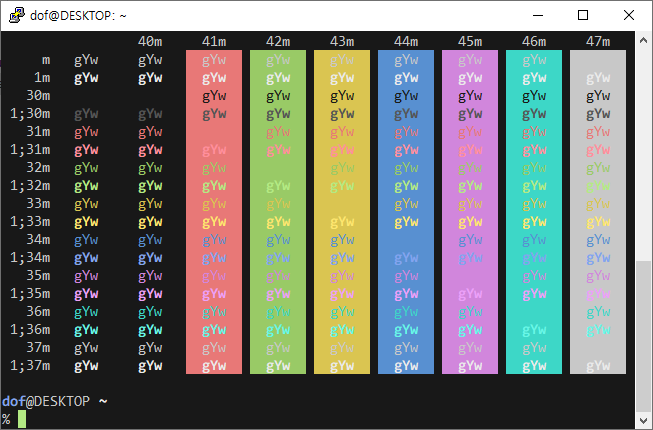
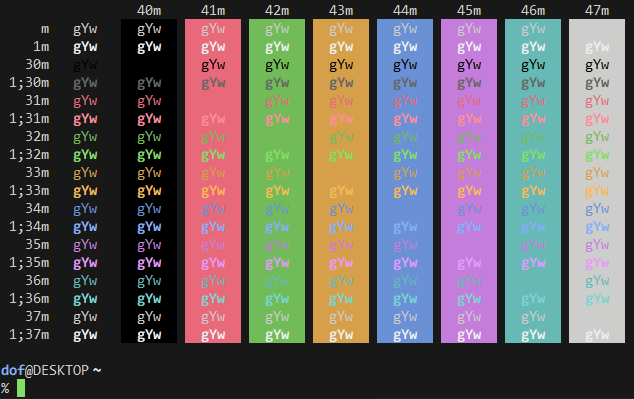
Adjust TTY color

diff --git a/color/putty_gen.py b/color/putty_gen.py
@@ -44,15 +44,31 @@ for c in Colour:
 color_jch = cspace_convert(color, "sRGB255", "JCh")
 
 # Normalize lightness
-j_mean = (np.mean(color_jch[8:22,0]) + np.max(color_jch[8:22,0])) / 2
-color_jch[8:22,0] = (color_jch[8:22,0] + j_mean) / 2
+j_mean = (np.mean(color_jch[8:20,0]) + np.max(color_jch[8:20,0])) / 2
+color_jch[8:20,0] = (color_jch[8:20,0] + j_mean) / 2
+
+j_lo_mean = np.mean(color_jch[8:20:2,0])
+color_jch[8:20:2,0] = (color_jch[8:20:2,0] + j_lo_mean) / 2
+
+j_hi_mean = np.mean(color_jch[9:22:2,0])
+color_jch[9:20:2,0] = (color_jch[9:20:2,0] + j_hi_mean) / 2
+
+j_w_mean = np.mean(color_jch[20:22,0])
+color_jch[20:22,0] = (color_jch[20:22,0] + j_w_mean) / 2
 
 # Normalize chroma
 c_min = np.min(color_jch[8:20,1])
-color_jch[8:20,1] = c_min
+c_mean = np.mean(color_jch[8:20,1])
+color_jch[8:20,1] = (color_jch[8:20,1] + c_min) / 2 - (c_mean - c_min) / 2
 
-# Little alt hue
-color_jch[8:20,2] = color_jch[8:20,2] - 10
+# Set hue
+color_jch[8:10,2] = 0
+color_jch[10:12,2] = 120
+color_jch[12:14,2] = 60
+color_jch[14:16,2] = 240
+color_jch[16:18,2] = 300
+color_jch[18:20,2] = 180
+color_jch[8:20,2] += 15     # avg delta = 26
 
 color_jch[0,:] = color_jch[20,:]    # FG
 color_jch[1,:] = color_jch[21,:]    # FG Bold
